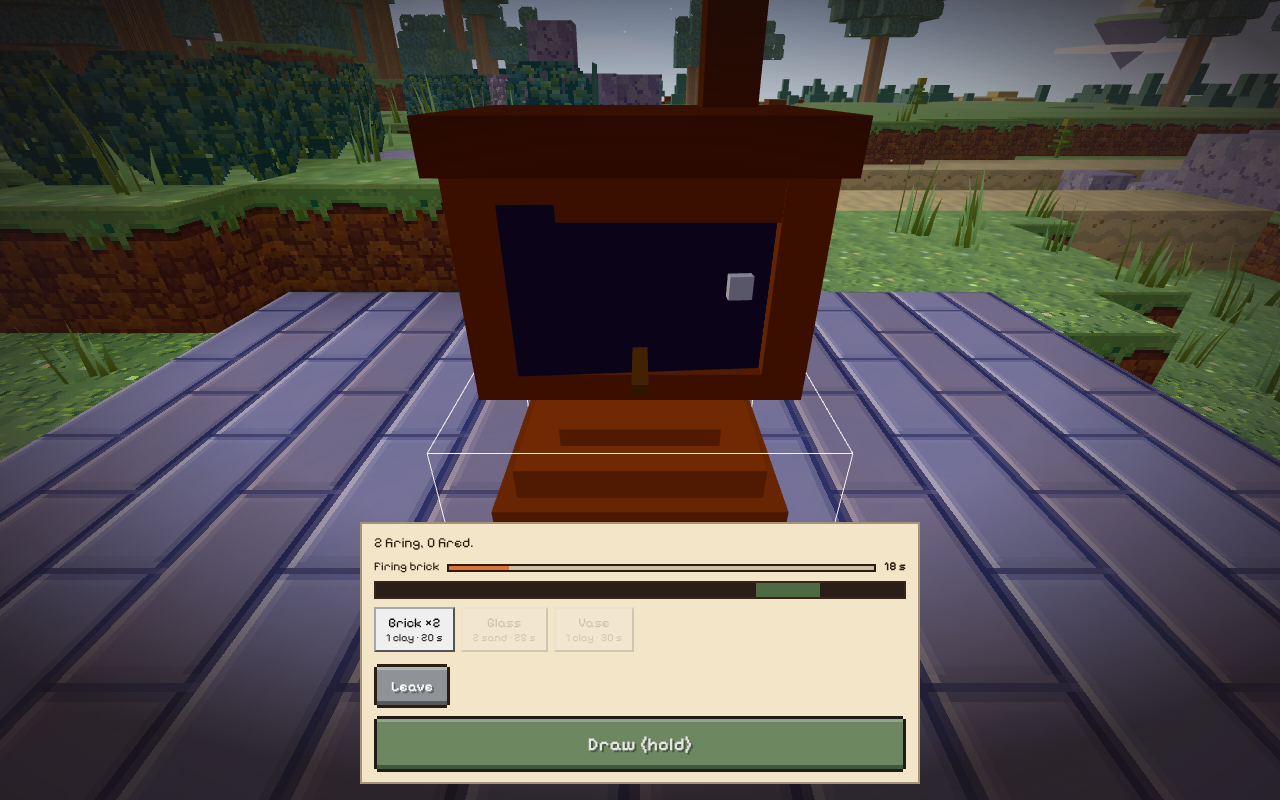
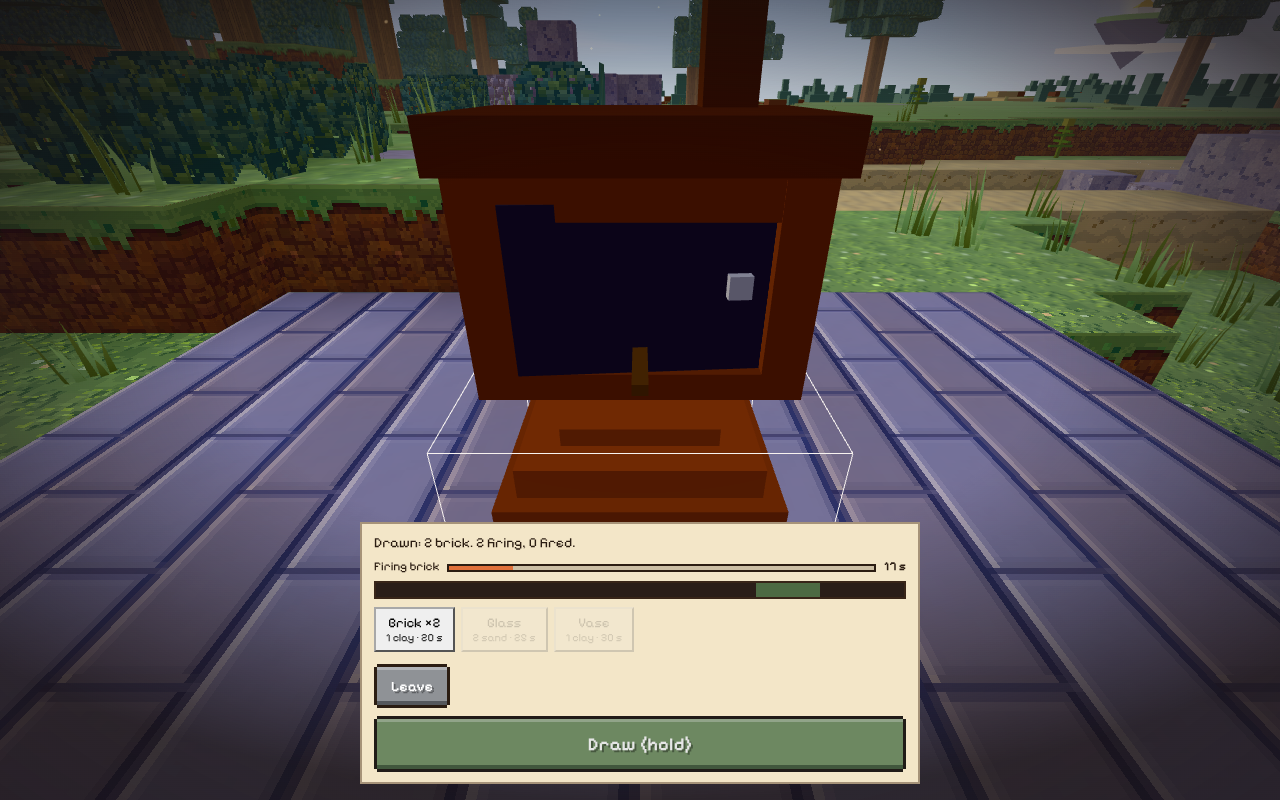
CRAFT-9 part 6: Kiln Oven made at the Workbench, as IMP-19 puts every hand recipe past Age 2
workbench.test.mjs holds the menu to Ages 1 and 2. Screenshots redrawn
with the draw's result kept on the bar.

Claude-Session: https://claude.ai/code/session_01HgGVa7TuDaqakunHmHAQ6k

diff --git a/src/config/items.js b/src/config/items.js
@@ -37,7 +37,7 @@ export const ITEMS = [
   { id: 'planing_bench', name: 'Planing Bench', kind: 'refined', stackTo: 10, color: 0xb98a5a, glyph: 'planks', block: 527, madeBy: 'Build from planks and stone — place it and plane logs into more planks' },
   { id: 'joinery_bench', name: 'Joinery Bench', kind: 'refined', stackTo: 10, color: 0xa77b52, glyph: 'planks', block: 528, madeBy: 'Build from planks, logs and stone. Place it and join doors, trapdoors, fences, gates and chests' },
   { id: 'crucible', name: 'Crucible', kind: 'refined', stackTo: 10, color: 0x7a4a3a, glyph: 'stone', block: 531, madeBy: 'Made at a Workbench. Place it inside a foundry to melt ore and pour it into a mould' },
-  { id: 'kiln_oven', name: 'Kiln Oven', kind: 'refined', stackTo: 10, color: 0x9a4e36, glyph: 'brick', block: 539, madeBy: 'Made by hand. Place it inside a kiln to fire clay into brick and vases, and sand into glass' },
+  { id: 'kiln_oven', name: 'Kiln Oven', kind: 'refined', stackTo: 10, color: 0x9a4e36, glyph: 'brick', block: 539, madeBy: 'Made at a Workbench. Place it inside a kiln to fire clay into brick and vases, and sand into glass' },
   { id: 'counter', name: 'Counter', kind: 'refined', stackTo: 10, color: 0xa87a4c, glyph: 'planks', block: 530, madeBy: 'Made by hand. Place it and make furniture on it: saw the parts, fit them together' },
   { id: 'workbench', name: 'Workbench', kind: 'refined', stackTo: 10, color: 0x9c7348, glyph: 'planks', block: 529, madeBy: 'Made by hand or at a workshop. Place it anywhere and make everything from the third age on there' },
   { id: 'forge', name: 'Forge', kind: 'refined', stackTo: 10, color: 0x655367, glyph: 'stone', block: 525, madeBy: 'Build from stone and clay — place it to darken rock and forge weapons' },

diff --git a/src/config/recipes.js b/src/config/recipes.js
@@ -1758,8 +1758,11 @@ for (const r of RECIPES) if (r.station === 'foundry') r.station = 'crucible';
 RECIPES.push({ id: 'crucible', name: 'Crucible', station: 'workbench', age: 5, inputs: { stone: 8, clay: 2 }, output: { id: 'crucible', count: 1 },
   blurb: 'Place it inside a foundry: melt ore and pour it into an ingot or coin mould.' });
 
-// CRAFT-9 part 6: the Kiln Oven, made by hand from Age 4, the age of the kiln it stands in.
-RECIPES.push({ id: 'kiln_oven', name: 'Kiln Oven', station: 'hand', age: 4, inputs: { cobblestone: 8, clay: 2 }, output: { id: 'kiln_oven', count: 1 },
+// CRAFT-9 part 6: the Kiln Oven, from Age 4, the age of the kiln it stands in.
+// A hand recipe of Age 4; IMP-19 makes every hand recipe past Age 2 at the
+// Workbench (the menu keeps Ages 1 and 2), so it is made there, as the
+// crucible is.
+RECIPES.push({ id: 'kiln_oven', name: 'Kiln Oven', station: 'workbench', age: 4, inputs: { cobblestone: 8, clay: 2 }, output: { id: 'kiln_oven', count: 1 },
   blurb: 'Place it inside a kiln: load clay or sand, let it fire, then draw out brick, glass or a vase.' });
 
 export const RECIPES_BY_ID = new Map(RECIPES.map((r) => [r.id, r]));

diff --git a/docs/TASKS.md b/docs/TASKS.md
@@ -463,7 +463,7 @@ built after the counter so it can reuse its view, bar and saving.
 | CRAFT3D-5 | **The rings at the forge.** Owner: "Crafting the dark and white ring would be nice to have this mechanic too in the forge." Today the White Ring (3 sunstone, 4 gold, 12 devotion) and the Black Ring (3 nightstone, 4 obsidian, 12 devotion) are made at the temple in Age 4. Forge them in 3D with CRAFT3D-4's process. To choose: whether they leave the temple, and how devotion is paid at a forge. | Any agent + Owner | done in the PR that changes this line: both rings can be hammered at a forge once a temple reaches level 5 (tier 4); the temple keeps its recipes |
 | CRAFT3D-6 | **The wood mill in 3D.** Owner: "the wooden mill and all". Logs fed to the saw blade and boards coming out, in 3D, instead of the spots panel. To choose: what you do while it saws (feed each log, or load and watch). | Any agent + Owner | done in the PR that changes this line: the wood mill opens in the bench close-up; hold Saw |
 | CRAFT3D-7 | **The other machines, "and all".** The stone mill, kiln, bleach bucket, planing bench and joinery bench, each with its own 3D process in the same pattern. One design and one PR per machine, in the order the owner picks. | Any agent + Owner | done in the PR that changes this line for the stone mill, bleach bucket, planing bench and joinery bench, one shared close-up (duilt/BenchWork.js). The kiln is a building, not a block, and keeps its panel |
-| CRAFT-9 | **Stone working and wood working as chains of steps.** Owner, 16 November: "Stone processing and wood processing are confusing. I would expect it to have items that go through a process to be made." One job per machine: the stone mill cuts and crushes, a new Mason's Bench shapes, a Kiln Oven fires brick and glass; the planing bench planes every plank, the wood mill saws, the joinery bench joins, the Counter becomes a Carpenter's Table with tap-to-fit. Seven small PRs. | Any agent + Owner | in progress: PR 1 of 7 merged in #331 (all planks at the Planing Bench, 3 a log from Age 1; mill and workshop planks gone; the bow by hand). PR 2 of 7 merged in #333 (Joinery Bench makes doors and trapdoors; fences and gates made only there; Wood Mill saws plank slabs and trim). PR 6 of 7 (Kiln Oven, block 539, made by hand in Age 4 from 8 cobblestone and 2 clay, placed inside a kiln: load, fire, hold Draw; brick 1 clay for 2, glass 2 sand for 1, vase 1 clay; brick and glass left the workshop) in the PR that changes this line |
+| CRAFT-9 | **Stone working and wood working as chains of steps.** Owner, 16 November: "Stone processing and wood processing are confusing. I would expect it to have items that go through a process to be made." One job per machine: the stone mill cuts and crushes, a new Mason's Bench shapes, a Kiln Oven fires brick and glass; the planing bench planes every plank, the wood mill saws, the joinery bench joins, the Counter becomes a Carpenter's Table with tap-to-fit. Seven small PRs. | Any agent + Owner | in progress: PR 1 of 7 merged in #331 (all planks at the Planing Bench, 3 a log from Age 1; mill and workshop planks gone; the bow by hand). PR 2 of 7 merged in #333 (Joinery Bench makes doors and trapdoors; fences and gates made only there; Wood Mill saws plank slabs and trim). PR 6 of 7 (Kiln Oven, block 539, made at the Workbench in Age 4 from 8 cobblestone and 2 clay, placed inside a kiln: load, fire, hold Draw; brick 1 clay for 2, glass 2 sand for 1, vase 1 clay; brick and glass left the workshop) in the PR that changes this line |
 
 
 ---
